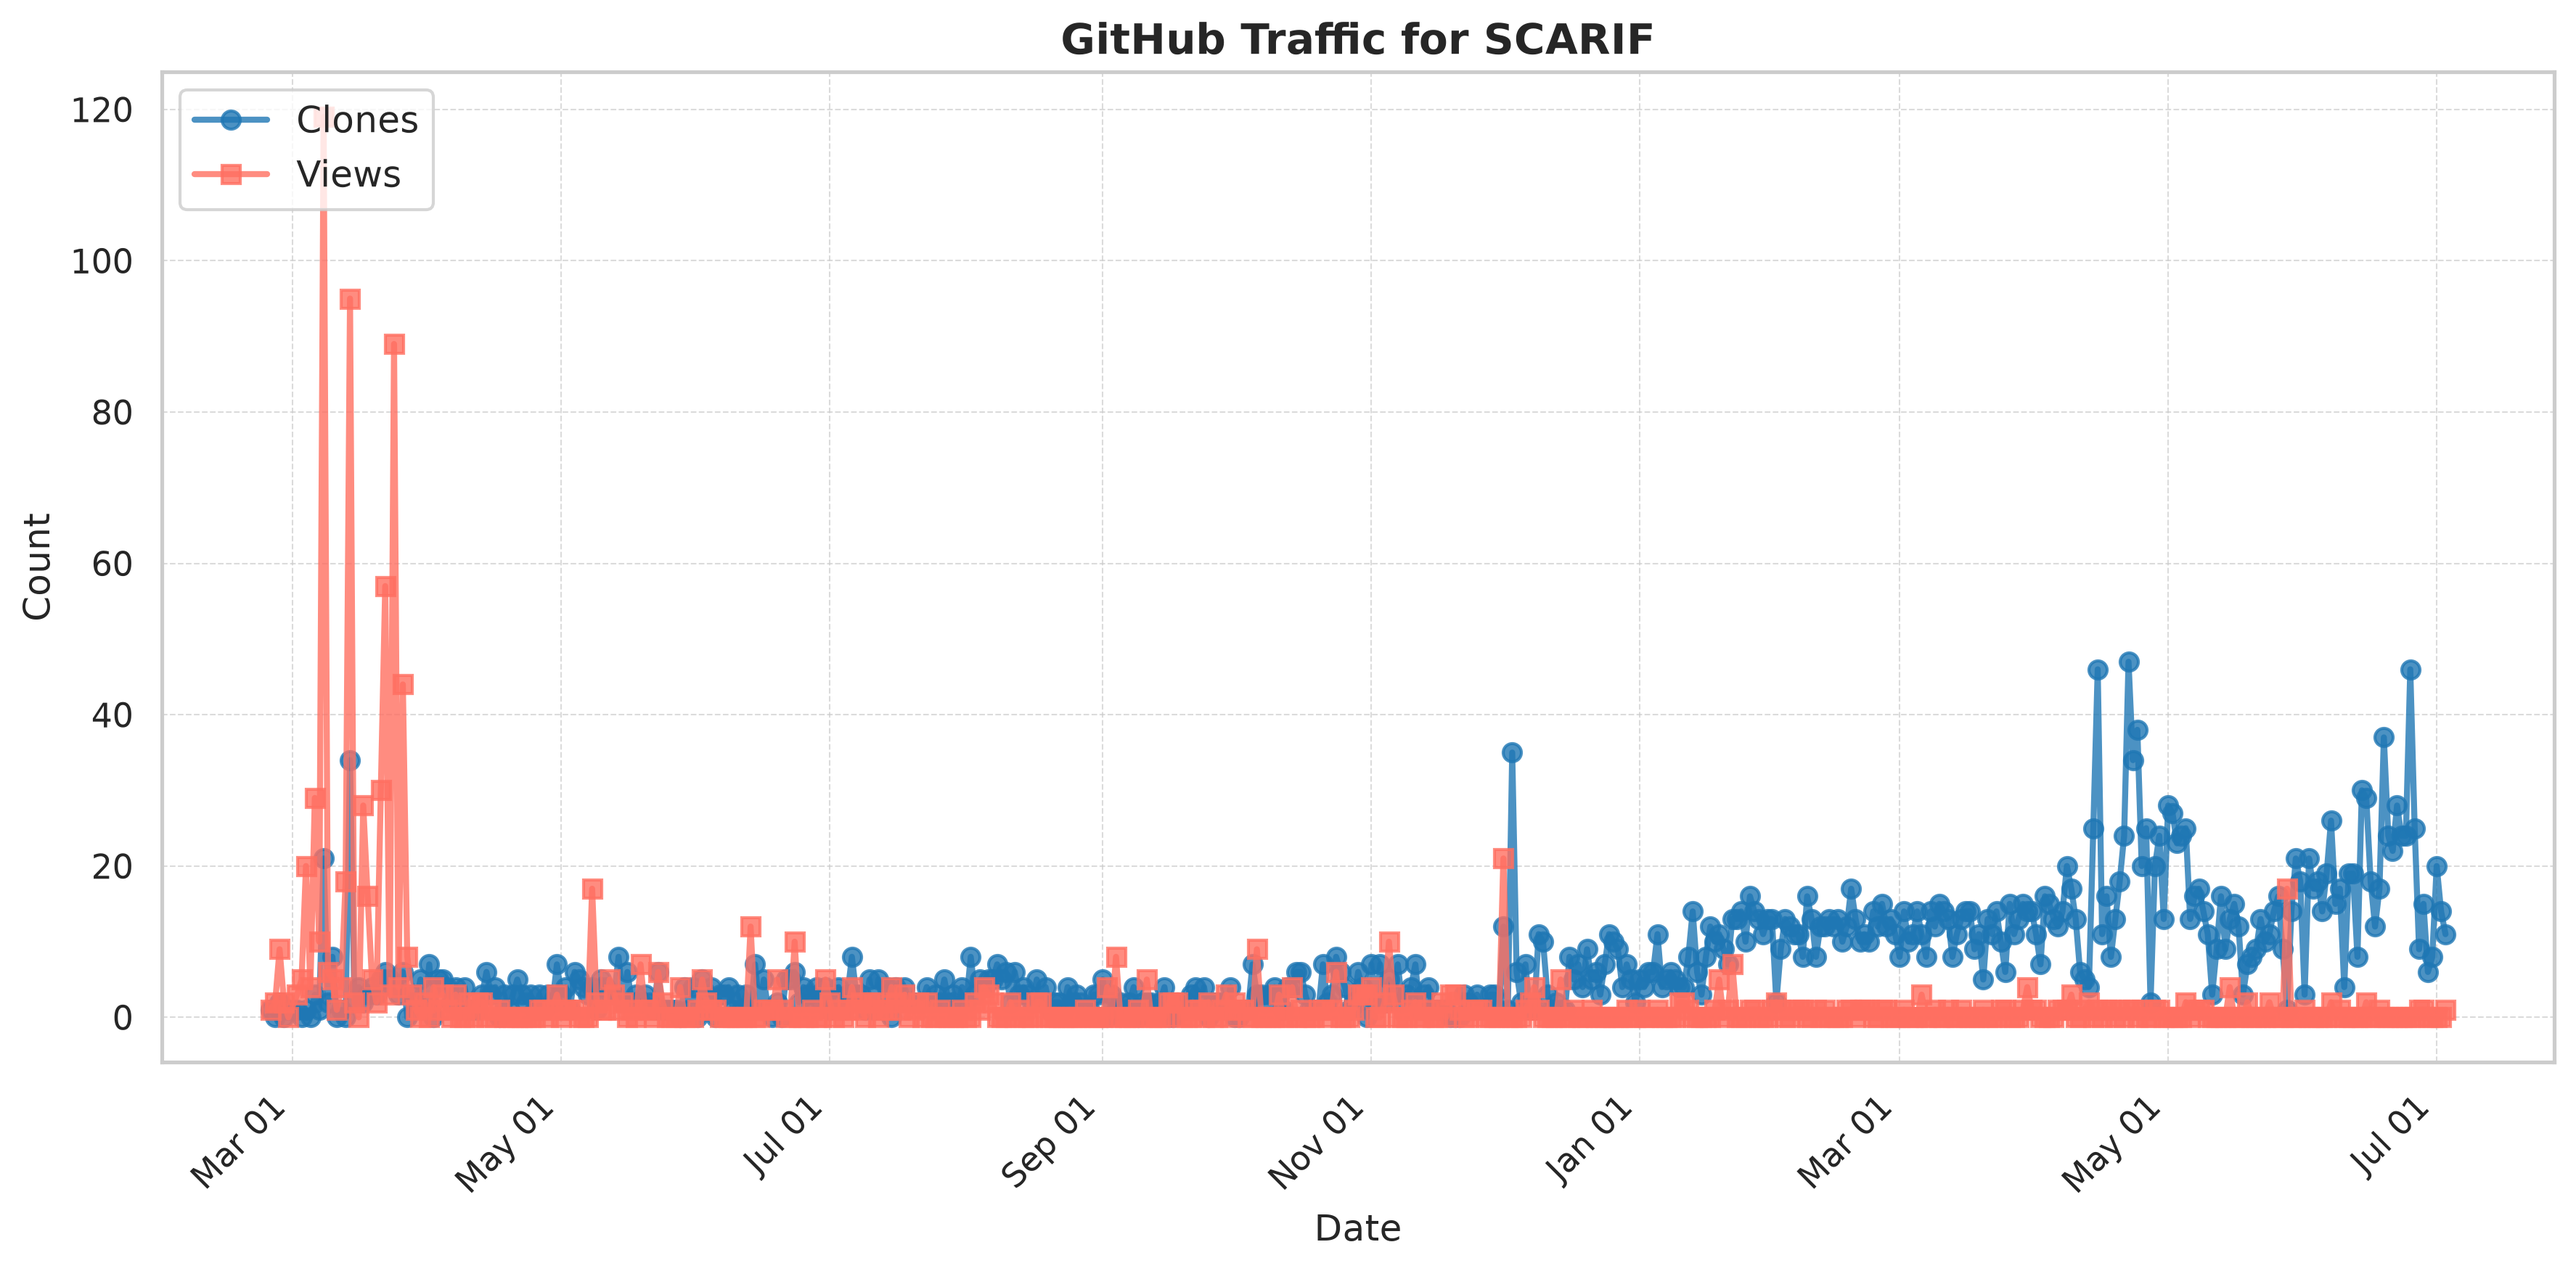
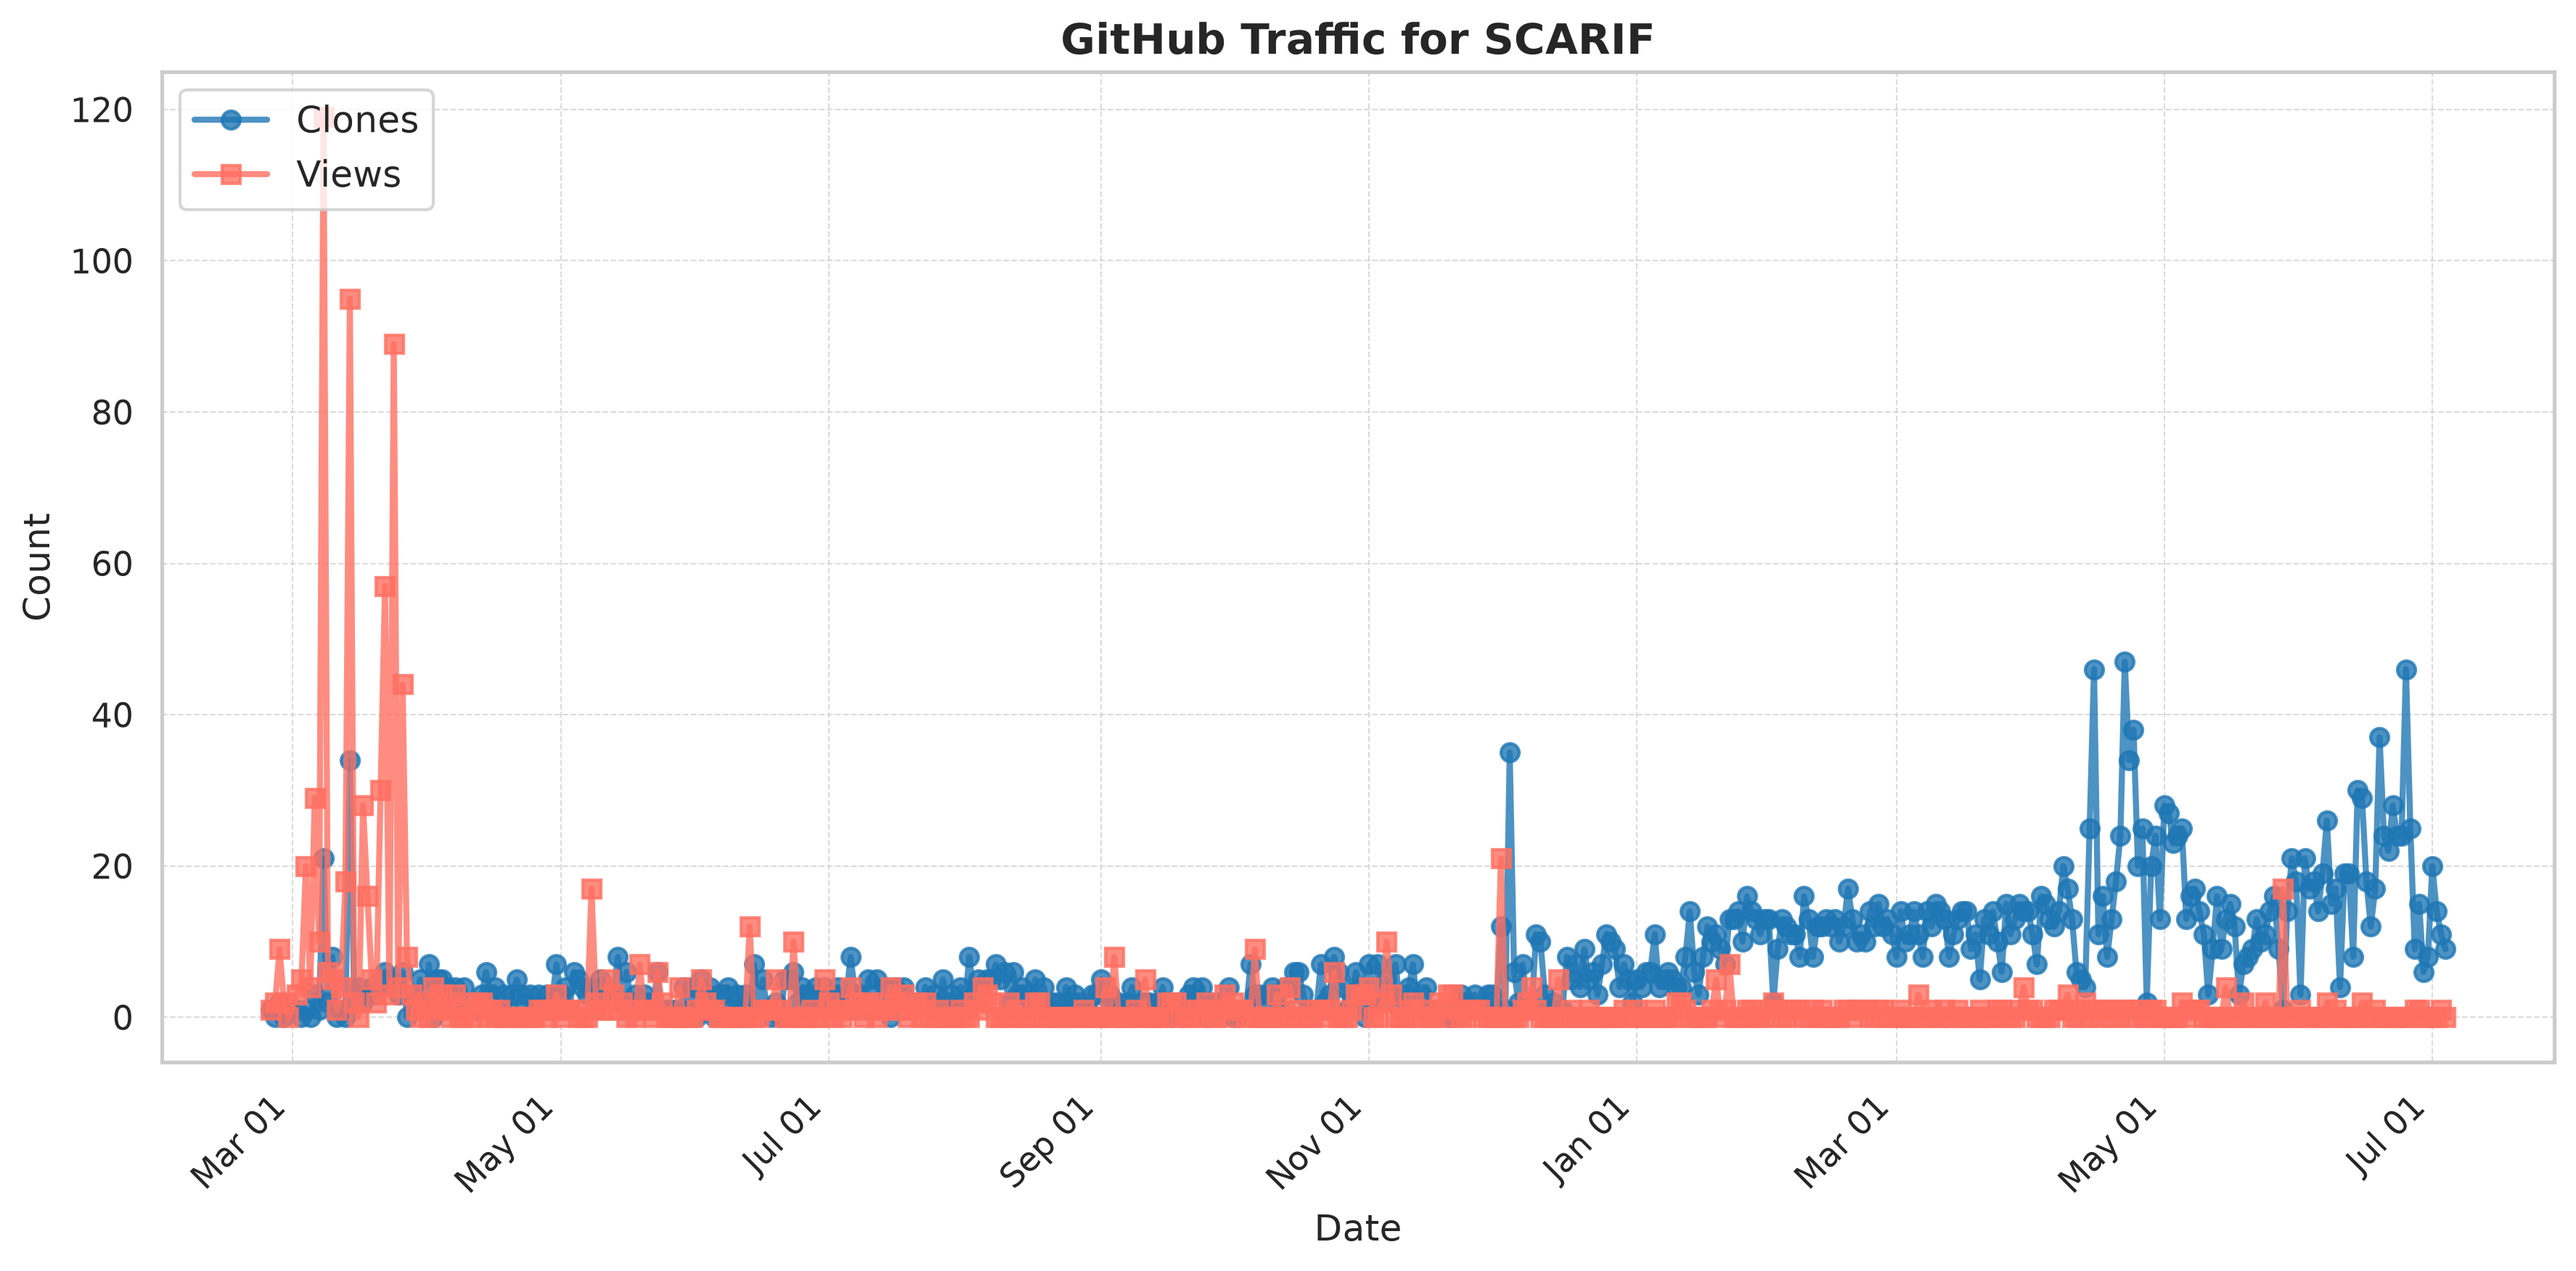
Auto-generated traffic_plot.png and plot_data.csv

diff --git a/README.md b/README.md
@@ -9,7 +9,7 @@ Student Collaborators: Stephen Cahoon
 
 ## 🚀 Thank You for Using SCARIF!!
 ### Your support and growing engagement inspire us to continually improve and enhance SCARIF
-- **Downloads since 22 Feb 2025:** <!--CLONES-->3577<!--/CLONES-->
+- **Downloads since 22 Feb 2025:** <!--CLONES-->3586<!--/CLONES-->
 - **Views: since 22 Feb 2025:** <!--VIEWS-->1069<!--/VIEWS-->
 <img src="./assets/SCARIF_traffic_plot.png" width="600" />
 
